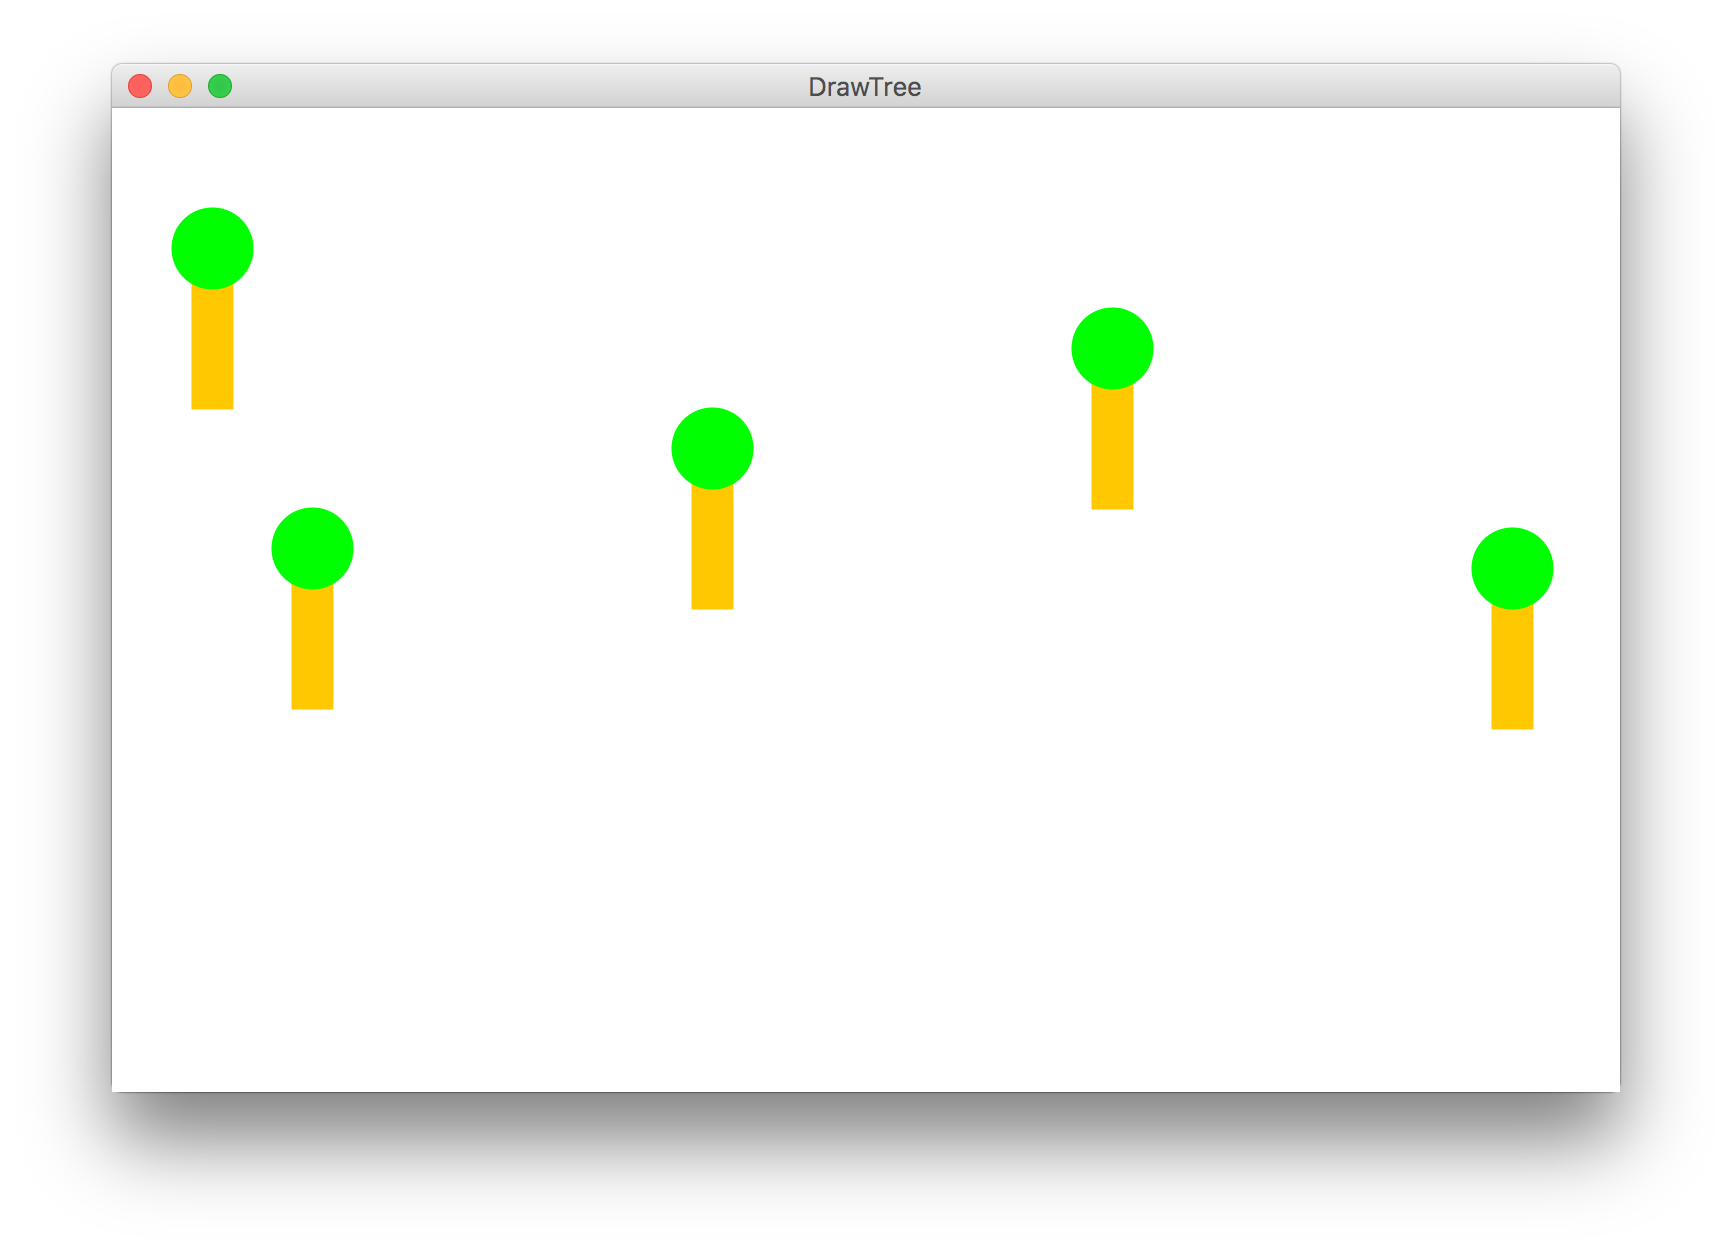
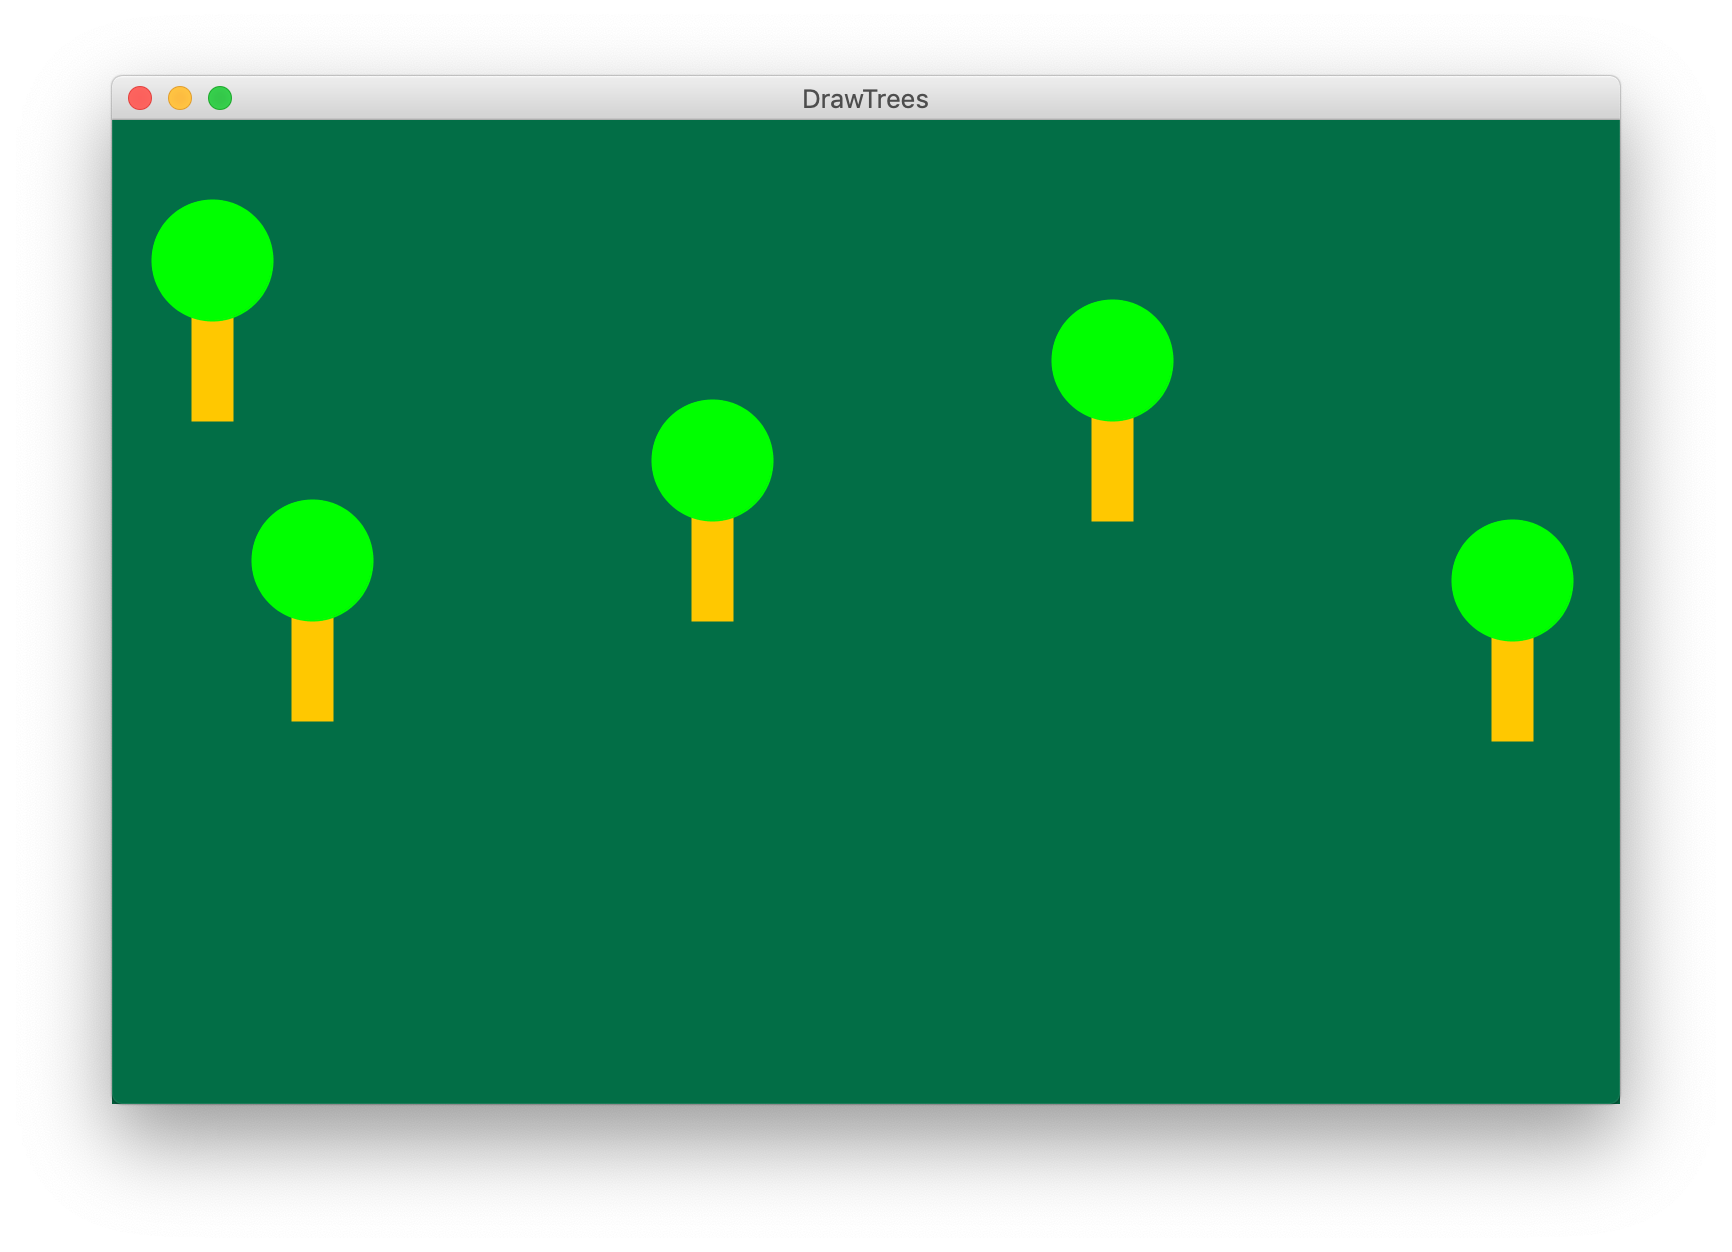
Mad methods solution

diff --git a/docs/sls/soln/madMethods.html b/docs/sls/soln/madMethods.html
@@ -7,7 +7,7 @@
 		<meta name="viewport" content="width=device-width,initial-scale=1">
 		<meta http-equiv="content-type" content="text/html; charset=utf-8" />
 		<link rel="shortcut icon" href="../../images/stanford-favicon.png" type="image/x-icon">
-		<title>CS Bridge  | Mad Methods</title>
+		<title>CS Bridge  | Mad Methods (TA)</title>
 
 		<!-- Fonts -->
 		<!--<link href='http://fonts.googleapis.com/css?family=Crimson+Text:400,600,700,900,600italic,700italic,900italic' rel='stylesheet' type='text/css'>
@@ -263,87 +263,69 @@
 		<div class="container">
 			
 
-	<!-- Main Content -->
-	<div class="container">
+<!-- Main Content -->
+<div class="container">
 
-		<!-- Header -->
-		<div id="pageHeader">
-			<h1>
-				Mad Methods
-			</h1>
-			<p>
-				Written by Chris and Bryce
-			</p>
-			<p>
-				Example:
-				<a href ="../../en/projects/averageMethod.html">Average Method</a>
-        <br/>
-        Day4: <code>MadMax.java</code>
-			</p>
+	<!-- Header -->
+	<div id="pageHeader">
+		<h1>
+            TA Solution: Mad Methods
+		</h1>
+    </div>
 
-		</div>
-		<hr/>
+	<hr/>
 
-		<div class="row">
-			<div class="col-md-12">
-				<h2>1. Mad Max</h2>
-				<p>
-					Complete the <code>MadMax</code> program by filling in the <code>max</code> method that returns the larger of its two parameters:
-				</p>
-				<div class="well"><code>private int max(int i, int j)</code></div>
-				<p>
-					The run method has already been written:
-					<pre>public void run() {
-    println("The max of 4 and 5 is: " + max(4, 5));
-    println("The max of -4 and 4 is: " + max(-4, 4));
-    println("The max of 1 and 2 is: " + max(1, 2));
-    println("The max of 0 and 0 is: " + max(0, 0));
+	<div class="row">
+		<div class="col-xs-12">
+
+<p>
+  This is the first set of lab problems for the day.  It gives students practice writing methods with parameters and return values.
+</p>
+
+<h3>Max Solution</h3>
+<p>This program is a short method that takes in two parameters and returns a value.  You can emphasize that even though this is a short method, it is helpful because from now on we can calculate the max of two numbers with just one method call instead of copy/pasting the code everywhere.</p>
+<pre id="editor1" style="height:150px">private int max(int i, int j) {
+    if (i > j) {
+        return i;
+    }
+    
+    return j;
 }</pre>
-				</p>
-				<p>
-					Your output should look like this:
-					<center>
-						<img style="width:500px" src="../../img/projects/madMax/madMax.png">	
-					</center>
-				</p>
 
-				<h2>2. Draw Trees</h2>
-			<p>
-				Example:
-				<a href ="../../en/projects/drawPeople.html">Draw People</a>,
-				<a href ="../../en/projects/halfGreen.html">Half Green</a>
-        <br/>
-        Day4: <code>DrawTrees.java</code>
-			</p>
-				<p>
-					Fill in the <code>drawTree</code> method that draws a tree with the <b>base</b> of its trunk centered at the provided (x, y) position:
-				</p>
-				<div class="well"><code>private void drawTree(int x, int y)</code></div>
-				<p>
-					The <code>run</code> method has already been written, which adds a dark-green background and draws some trees:
-					<pre>public void run() {
-	setBackground(new Color(2, 110, 70));						
-    drawTree(50, 150);
-    drawTree(100, 300);
-    drawTree(500, 200);
-    drawTree(300, 250);
-    drawTree(700, 310);
+<h3>Draw Trees</h3>
+<p>This program gives students practice with methods in graphics programs.  It does not return any value, but has to perform drawing based on the parameter values.</p>
+<pre id="editor2" style="height:300px"> private void drawTree(int x, int y) {
+    // Draw the trunk with the bottom-center of its base at (x, y)
+    int trunkX = x - TRUNK_WIDTH / 2;
+    int trunkY = y - TRUNK_HEIGHT;
+    GRect trunk = new GRect(trunkX, trunkY, TRUNK_WIDTH, TRUNK_HEIGHT);
+    trunk.setFilled(true);
+    trunk.setColor(Color.ORANGE);
+    add(trunk);
+    
+    // Draw the leaves with the center at the top-center of the trunk
+    GOval leaves = new GOval(trunkX + TRUNK_WIDTH / 2 - LEAVES_RADIUS, trunkY - LEAVES_RADIUS, 
+                             2 * LEAVES_RADIUS, 2 * LEAVES_RADIUS);
+    leaves.setFilled(true);
+    leaves.setColor(Color.GREEN);
+    add(leaves);
 }</pre>
-				</p>
-				<p>
-					Each tree should have a truck with a width of 20 pixels and a height of 80 pixels. The leaves should have a radius of 30 pixels.  The center of the leaves should be at the top center of the trunk. Your output should look like this:
-					<center>
-						<img style="width:500px" src="../../img/projects/madMax/drawTree.png">	
-					</center>
-				</p>
 
-				<p>
-					If you finish early, see how beautiful a tree you can create. Email us a screenshot!
-				</p>
-			</div>
-
-		</div>
-			
+    
+<script src="../../plugins/ace/ace.js" type="text/javascript" charset="utf-8"></script>
+<script>
+    for (var i = 1; i <= 2; i++) {
+        var editor = ace.edit("editor" + i);
+        editor.setTheme('ace/theme/eclipse');
+        editor.getSession().setMode("ace/mode/java");
+        editor.setReadOnly(true);
+        editor.renderer.setShowGutter(false); 
+        /*editor.setTheme("ace/theme/eclipse");
+        editor.getSession().setMode("ace/mode/java");*/
+    }
+</script>		</div>
+	</div>
+</div>			
 			<!-- Footer -->
 			<hr>
 

diff --git a/templates/sls/soln/madMethods.html b/templates/sls/soln/madMethods.html
@@ -1,0 +1,48 @@
+% rebase('templates/sls/soln/template.ptl', problemTitle="Mad Methods")
+
+<p>
+  This is the first set of lab problems for the day.  It gives students practice writing methods with parameters and return values.
+</p>
+
+<h3>Max Solution</h3>
+<p>This program is a short method that takes in two parameters and returns a value.  You can emphasize that even though this is a short method, it is helpful because from now on we can calculate the max of two numbers with just one method call instead of copy/pasting the code everywhere.</p>
+<pre id="editor1" style="height:150px">private int max(int i, int j) {
+    if (i > j) {
+        return i;
+    }
+    
+    return j;
+}</pre>
+
+<h3>Draw Trees</h3>
+<p>This program gives students practice with methods in graphics programs.  It does not return any value, but has to perform drawing based on the parameter values.</p>
+<pre id="editor2" style="height:300px"> private void drawTree(int x, int y) {
+    // Draw the trunk with the bottom-center of its base at (x, y)
+    int trunkX = x - TRUNK_WIDTH / 2;
+    int trunkY = y - TRUNK_HEIGHT;
+    GRect trunk = new GRect(trunkX, trunkY, TRUNK_WIDTH, TRUNK_HEIGHT);
+    trunk.setFilled(true);
+    trunk.setColor(Color.ORANGE);
+    add(trunk);
+    
+    // Draw the leaves with the center at the top-center of the trunk
+    GOval leaves = new GOval(trunkX + TRUNK_WIDTH / 2 - LEAVES_RADIUS, trunkY - LEAVES_RADIUS, 
+                             2 * LEAVES_RADIUS, 2 * LEAVES_RADIUS);
+    leaves.setFilled(true);
+    leaves.setColor(Color.GREEN);
+    add(leaves);
+}</pre>
+
+    
+<script src="{{pathToRoot}}plugins/ace/ace.js" type="text/javascript" charset="utf-8"></script>
+<script>
+    for (var i = 1; i <= 2; i++) {
+        var editor = ace.edit("editor" + i);
+        editor.setTheme('ace/theme/eclipse');
+        editor.getSession().setMode("ace/mode/java");
+        editor.setReadOnly(true);
+        editor.renderer.setShowGutter(false); 
+        /*editor.setTheme("ace/theme/eclipse");
+        editor.getSession().setMode("ace/mode/java");*/
+    }
+</script>

diff --git a/templates/en/projects/madMethods.html b/templates/en/projects/madMethods.html
@@ -57,8 +57,9 @@
 				</p>
 				<div class="well"><code>private void drawTree(int x, int y)</code></div>
 				<p>
-					The run method has already been written:
+					The <code>run</code> method has already been written, which adds a dark-green background and draws some trees:
 					<pre>public void run() {
+	setBackground(new Color(2, 110, 70));						
     drawTree(50, 150);
     drawTree(100, 300);
     drawTree(500, 200);
@@ -67,14 +68,14 @@
 }</pre>
 				</p>
 				<p>
-					Each tree should have a truck with a width of 20 pixels and a height of 80 pixels. The leaves should have a radius of 30 pixels	. Your output should look like this:
+					Each tree should have a truck with a width of 20 pixels and a height of 80 pixels. The leaves should have a radius of 30 pixels.  The center of the leaves should be at the top center of the trunk. Your output should look like this:
 					<center>
 						<img style="width:500px" src="{{pathToRoot}}img/projects/madMax/drawTree.png">	
 					</center>
 				</p>
 
 				<p>
-					If you finish early see how beautiful a tree you can create. Email us a screenshot!
+					If you finish early, see how beautiful a tree you can create. Email us a screenshot!
 				</p>
 			</div>
 
